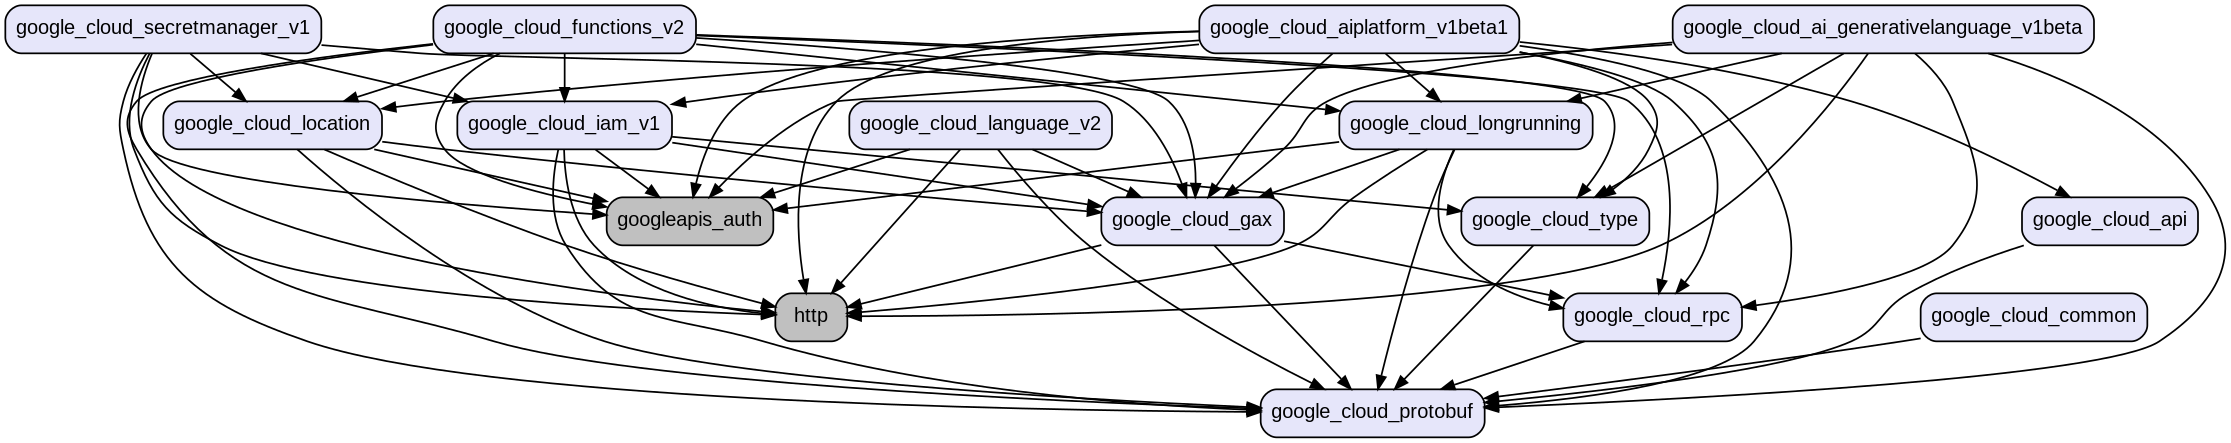
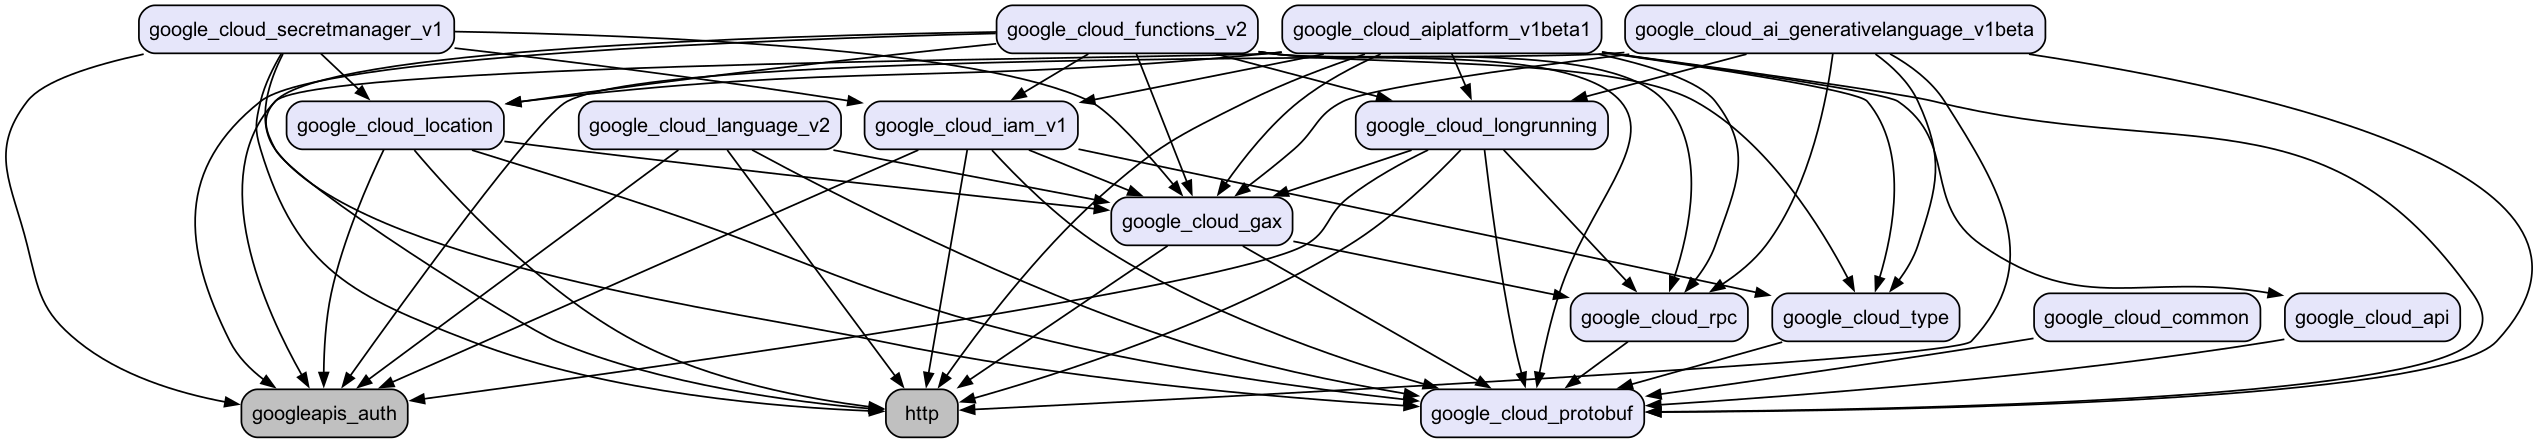
Fix deps

diff --git a/tool/deps_diagram.dart b/tool/deps_diagram.dart
@@ -27,37 +27,83 @@ digraph "" {
   graph [style=rounded fontname="Arial Black" fontsize=13 penwidth=2.6];
   node [shape=rect style="filled,rounded" fontname=Arial fontsize=15 fillcolor=Lavender penwidth=1.3];
   edge [penwidth=1.3];
-  {{EDGES}}
+{{HEADERS}}
+{{EDGES}}
 }
 ''';
+
+class Package implements Comparable<Package> {
+  static Map<String, Package> nameToPackage = {};
+  final String name;
+  final Set<Package> deps = {};
+
+  static Package maybeAdd(String packageName) => Package.nameToPackage
+      .putIfAbsent(packageName, () => Package(packageName));
+
+  Package(this.name);
+
+  @override
+  String toString() => name;
+
+  @override
+  int compareTo(Package other) => name.compareTo(other.name);
+}
 
 void main() {
   final results = Process.runSync('dart', ['pub', 'deps', '--json']);
 
   final json = jsonDecode(results.stdout as String) as Map<String, dynamic>;
-  final packages = (json['packages'] as List).cast<Map<String, dynamic>>();
+  final packageMaps = (json['packages'] as List).cast<Map<String, dynamic>>();
   final connections = StringBuffer();
+  final headers = StringBuffer();
 
-  for (final package in packages) {
-    final packageName = package['name'] as String;
+  for (final packageMap in packageMaps) {
+    final packageName = packageMap['name'] as String;
     if (packageName.startsWith('google_cloud')) {
-      final dependencies = (package['directDependencies'] as List)
+      final package = Package.maybeAdd(packageName);
+      final dependencies = (packageMap['directDependencies'] as List)
           .cast<String>();
-      for (final dependency in dependencies) {
-        if (!dependency.startsWith('google_cloud')) {
-          connections.writeln('"$dependency" [fillcolor="grey"]');
-        }
-
-        connections.writeln('"$packageName" -> "$dependency";');
+      for (final dependencyName in dependencies) {
+        final dependency = Package.maybeAdd(dependencyName);
+        package.deps.add(dependency);
+        connections.writeln('"$packageName" -> "$dependencyName";');
       }
     }
   }
 
+  // Color all foreign packages grey.
+  for (final package in Package.nameToPackage.values) {
+    if (!package.name.startsWith('google_cloud')) {
+      headers.writeln('"${package.name}" [fillcolor="grey"]');
+    }
+  }
+
+  // Put all of the packages with common dependencies on the same level of the
+  // graph.
+  final remaining = Set<Package>.from(Package.nameToPackage.values);
+  final visited = <Package>{};
+  while (remaining.isNotEmpty) {
+    final rank = <Package>[];
+    for (final p in remaining) {
+      if (visited.containsAll(p.deps)) {
+        rank.add(p);
+      }
+    }
+    headers.writeln(
+      '{ rank = same; ${[for (final p in rank) '"${p.name}"'].join(" ")}}',
+    );
+    visited.addAll(rank);
+    remaining.removeAll(rank);
+  }
+
   final tmpDir = Directory.systemTemp.createTempSync('deps');
   final path = '${tmpDir.path}/deps.dot';
+  print(path);
 
   File(path).writeAsStringSync(
-    dotTemplate.replaceFirst('{{EDGES}}', connections.toString()),
+    dotTemplate
+        .replaceFirst('{{HEADERS}}', headers.toString())
+        .replaceFirst('{{EDGES}}', connections.toString()),
   );
 
   Process.runSync('dot', ['-Tpng', path, '-o', 'deps.png']);
